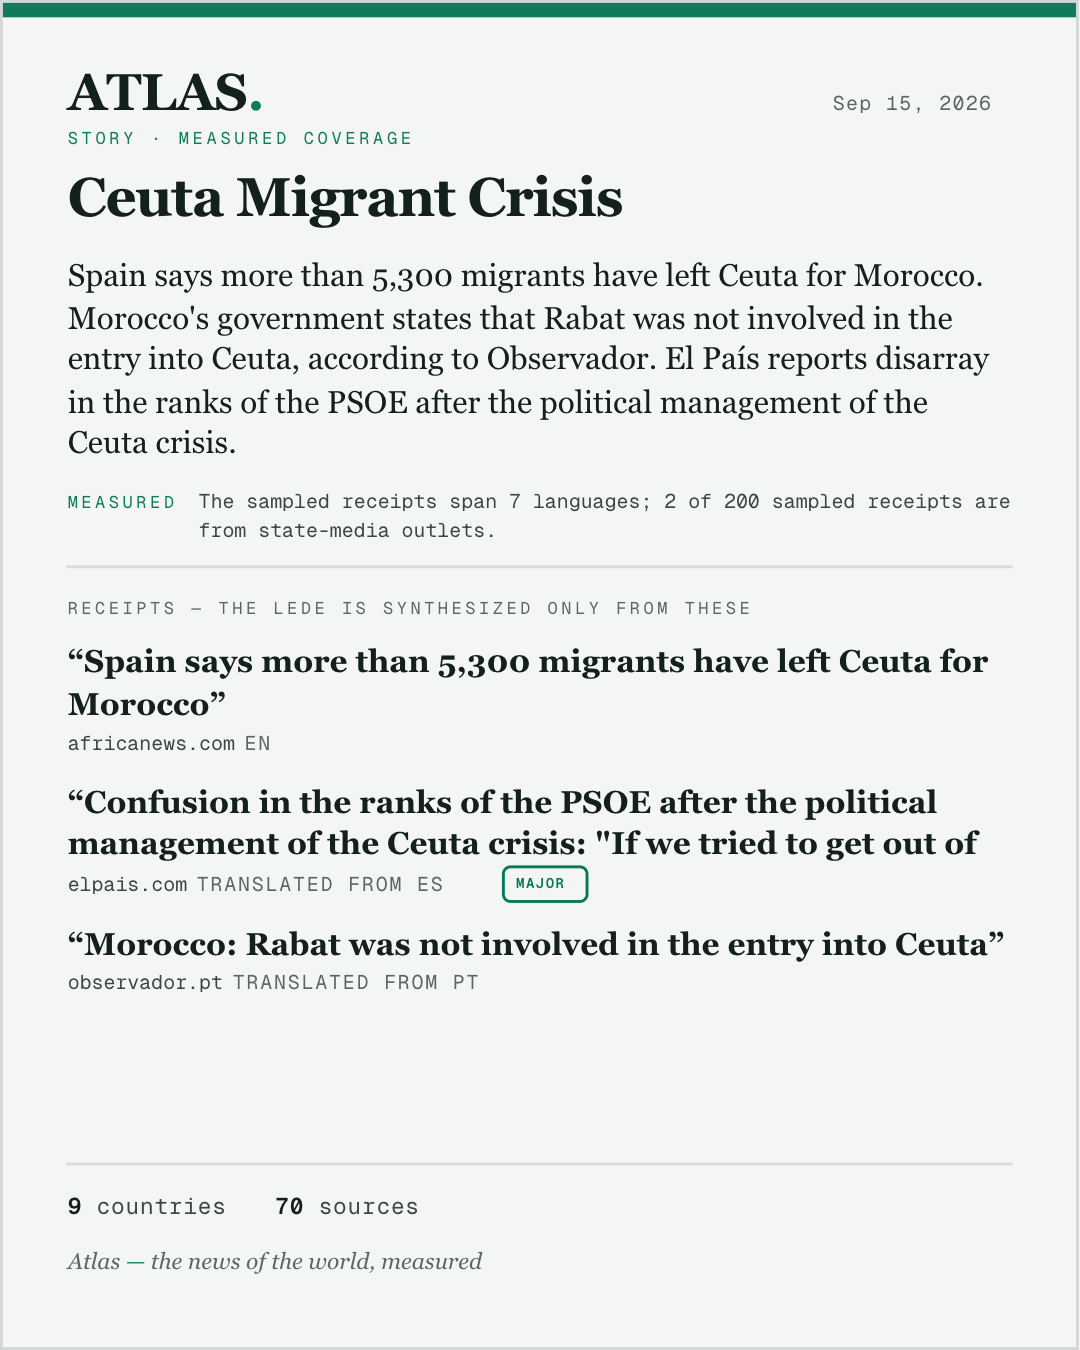
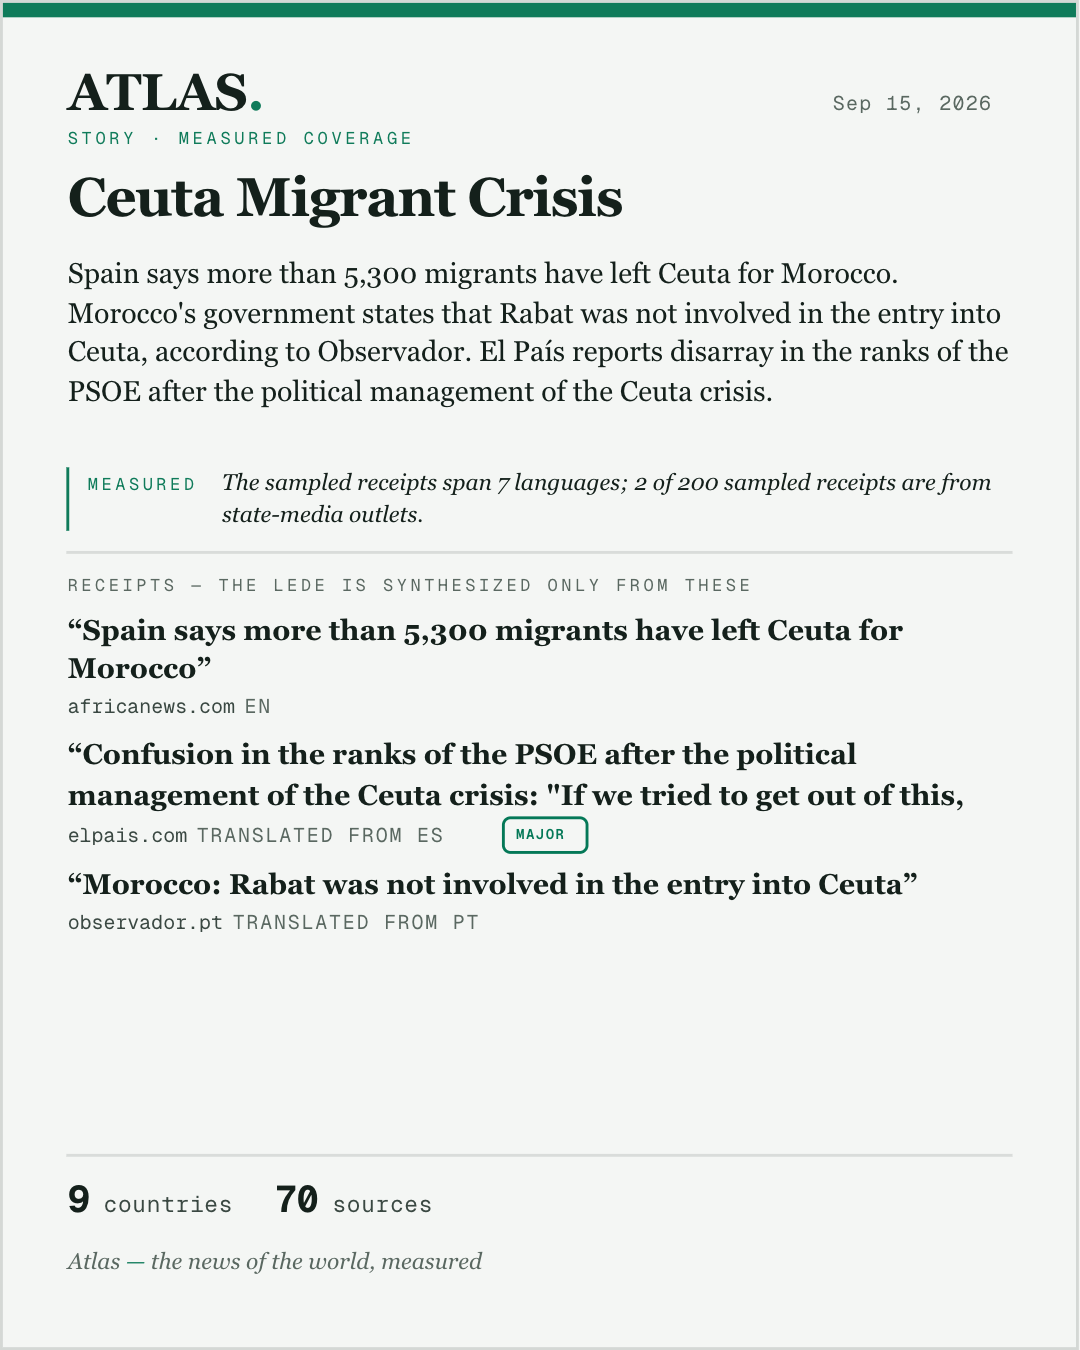
style(kit): square con lede — recibos a 1 línea; el chip STATE del 3er recibo nunca queda fuera del frame

Changed region(s): [[0.0611, 0.1867, 0.9167, 0.7467], [0.2444, 0.8711, 0.3972, 0.9022], [0.0611, 0.8711, 0.2139, 0.9022]]

diff --git a/frontend-v2/src/components/StoryShareKit.css b/frontend-v2/src/components/StoryShareKit.css
@@ -556,7 +556,10 @@
 .story-kit-card[data-format="square"] .skc-receipts  { gap: 1.4cqw; padding-top: 1.7cqw; }
 .story-kit-card[data-format="square"] .skc-lab       { font-size: 1.35cqw; }
 .story-kit-card[data-format="square"] .skc-receipt-head { font-size: 2.5cqw; -webkit-line-clamp: 2; }
-.story-kit-card[data-format="square"]:has(.skc-lede) .skc-receipt-head { -webkit-line-clamp: 2; }
+.story-kit-card[data-format="square"]:has(.skc-lede) .skc-receipt-head { -webkit-line-clamp: 1; }
+.story-kit-card[data-format="square"]:has(.skc-lede) .skc-lede { font-size: 2.2cqw; -webkit-line-clamp: 6; }
+.story-kit-card[data-format="square"]:has(.skc-lede) .skc-vitals { padding-top: 1.2cqw; }
+.story-kit-card[data-format="square"]:has(.skc-lede) .skc-foot { margin-top: 1.1cqw; }
 .story-kit-card[data-format="square"] .skc-receipt-meta { font-size: 1.75cqw; }
 .story-kit-card[data-format="square"] .skc-receipt-meta .l2-tier-chip { font-size: 1.35cqw; padding: 0.12cqw 0.9cqw; }
 .story-kit-card[data-format="square"] .skc-vitals    { font-size: 2cqw; padding-top: 1.6cqw; gap: 0.8cqw 2.2cqw; }
